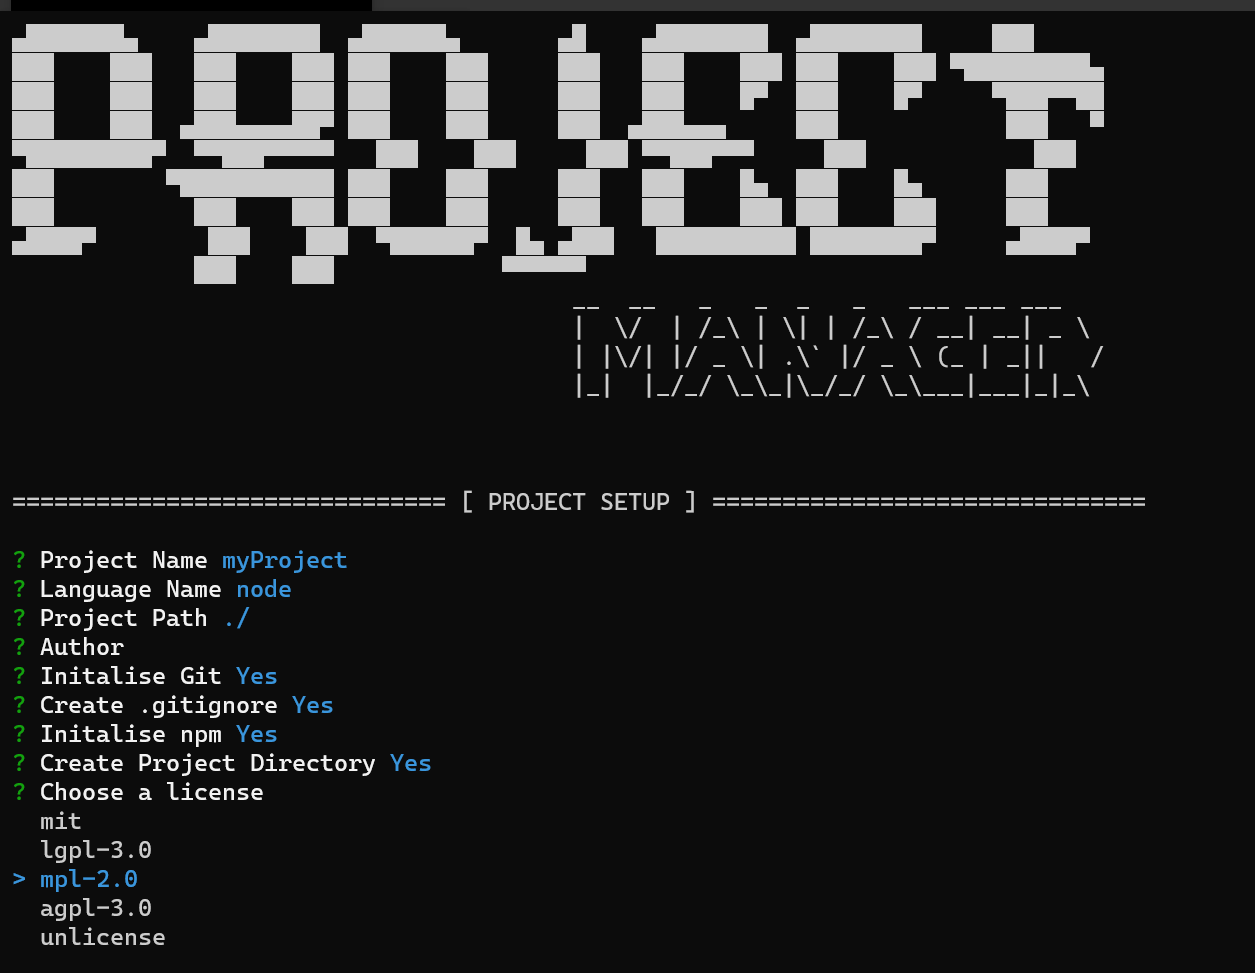
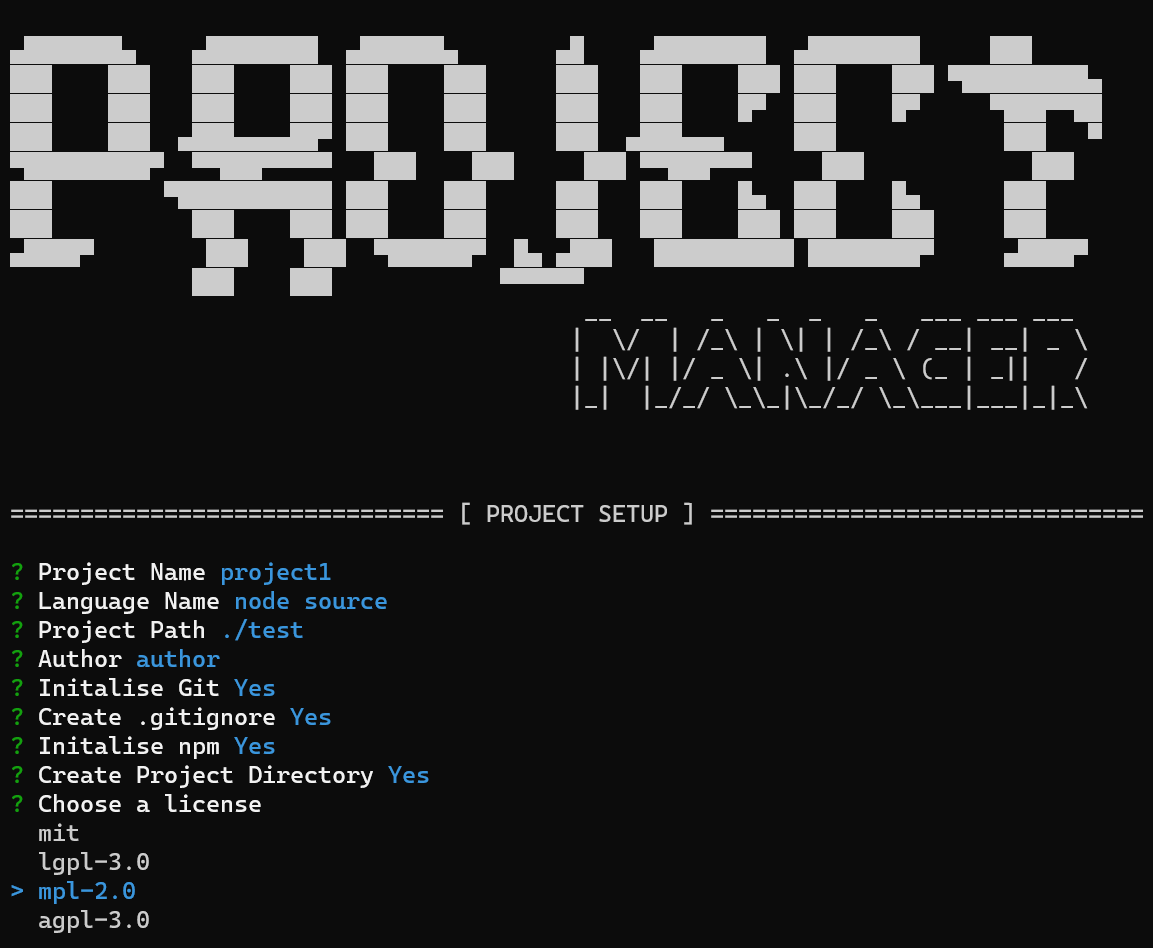
media update - change image - change graphics

Changed region(s): [[0.0, 0.0, 1.0, 0.4283], [0.0, 0.4895, 0.9991, 0.9789], [0.8742, 0.3365, 0.9367, 0.4283]]

diff --git a/lib/graphics.js b/lib/graphics.js
@@ -9,9 +9,9 @@ const logo =
 ███          ███    ███ ███    ███     ███   ███    ███ ███    ███     ███          
 ▄████▀        ███    ███  ▀██████▀  █▄ ▄███   ██████████ ████████▀     ▄████▀        
              ███    ███            ▀▀▀▀▀▀                                    
-                                        __  __   _   _  _   _   ___ ___ ___ 
+                                         __  __   _   _  _   _   ___ ___ ___ 
                                         |  \\/  | /_\\ | \\| | /_\\ / __| __| _ \\
-                                        | |\\/| |/ _ \\| .\\\` |/ _ \\ (_ | _||   /
+                                        | |\\/| |/ _ \\| .\\ |/ _ \\ (_ | _||   /
                                         |_|  |_/_/ \\_\\_|\\_/_/ \\_\\___|___|_|_\\
                                        
  
